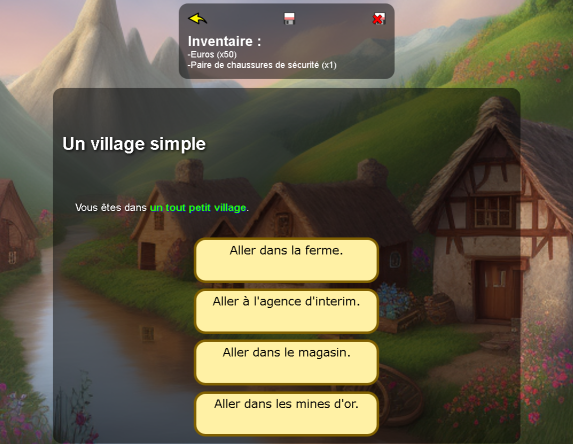
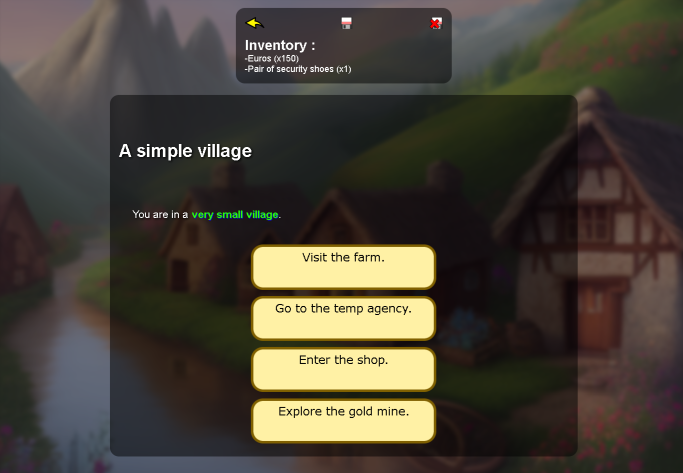
Updated screenshot with English version.

diff --git a/www/jeux/1_jeu_exemple/index.htm b/www/jeux/1_jeu_exemple/index.htm
@@ -217,7 +217,7 @@ text-align:center;
             </a>
         </div>
         <div id="inventaire">
-        <h2> Inventaire :</h2>
+        <h2> Inventory :</h2>
             <div id="contenuInventaire">
             </div>    
         </div>    
